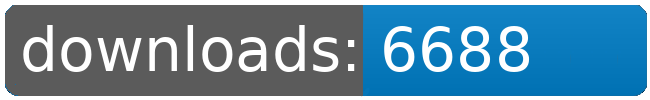
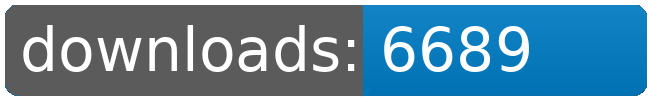
dl log written

Changed region(s): [[0.7692, 0.27, 0.8308, 0.72]]

diff --git a/README.md b/README.md
@@ -32,8 +32,8 @@
 		<td>6824</td>
 		<td>6840</td>
 		<td>6854</td>
-		<td>6858</td>
-		<td>+ 4</td>
+		<td>6859</td>
+		<td>+ 5</td>
 	</tr>
 	<tr>
 		<td>Fundamental.Outfit.Expansion</td>
@@ -54,8 +54,8 @@
 		<td>6656</td>
 		<td>6672</td>
 		<td>6685</td>
-		<td>6688</td>
-		<td>+ 3</td>
+		<td>6689</td>
+		<td>+ 4</td>
 	</tr>
 	<tr>
 		<td>Korunak.Defense.Drones</td>
@@ -120,8 +120,8 @@
 		<td></td>
 		<td></td>
 		<td></td>
-		<td>57454</td>
-		<td>26</td>
+		<td>57456</td>
+		<td>28</td>
 	</tr>
 </table>
 </sub></sup>
@@ -190,8 +190,8 @@
 		<td>6824</td>
 		<td>6840</td>
 		<td>6854</td>
-		<td>6858</td>
-		<td>+ 4</td>
+		<td>6859</td>
+		<td>+ 5</td>
 	</tr>
 	<tr>
 		<td>Solar.Sails</td>
@@ -212,8 +212,8 @@
 		<td>6656</td>
 		<td>6672</td>
 		<td>6685</td>
-		<td>6688</td>
-		<td>+ 3</td>
+		<td>6689</td>
+		<td>+ 4</td>
 	</tr>
 	<tr>
 		<td>Zone.of.Control</td>
@@ -245,8 +245,8 @@
 		<td></td>
 		<td></td>
 		<td></td>
-		<td>57454</td>
-		<td>26</td>
+		<td>57456</td>
+		<td>28</td>
 	</tr>
 </table>
 </sub></sup>
@@ -254,7 +254,6 @@
 <table>
 	<tr>
 		<td> </td>
-		<td>2026-07-18</td>
 		<td>2026-07-19</td>
 		<td>2026-07-20</td>
 		<td>2026-07-21</td>
@@ -263,10 +262,10 @@
 		<td>2026-07-24</td>
 		<td>2026-07-25</td>
 		<td>2026-07-26</td>
+		<td>2026-07-27</td>
 	</tr>
 	<tr>
 		<td>page views</td>
-		<td>21</td>
 		<td>8</td>
 		<td>0</td>
 		<td>4</td>
@@ -275,10 +274,10 @@
 		<td>29</td>
 		<td>6</td>
 		<td>4</td>
+		<td>7</td>
 	</tr>
 	<tr>
 		<td>unique visitors</td>
-		<td>8</td>
 		<td>4</td>
 		<td>0</td>
 		<td>4</td>
@@ -287,6 +286,7 @@
 		<td>5</td>
 		<td>2</td>
 		<td>2</td>
+		<td>3</td>
 	</tr>
 </table>
 <br>
@@ -300,8 +300,8 @@
 	</tr>
 	<tr>
 		<td>2025-10-13</td>
-		<td>6198</td>
-		<td>1893</td>
+		<td>6205</td>
+		<td>1896</td>
 		<td>173</td>
 		<td>45</td>
 	</tr>
@@ -314,8 +314,8 @@
 	</tr>
 	<tr>
 		<td>288</td>
-		<td>21.52</td>
-		<td>6.57</td>
+		<td>21.55</td>
+		<td>6.58</td>
 		<td></td>
 		<td></td>
 	</tr>
